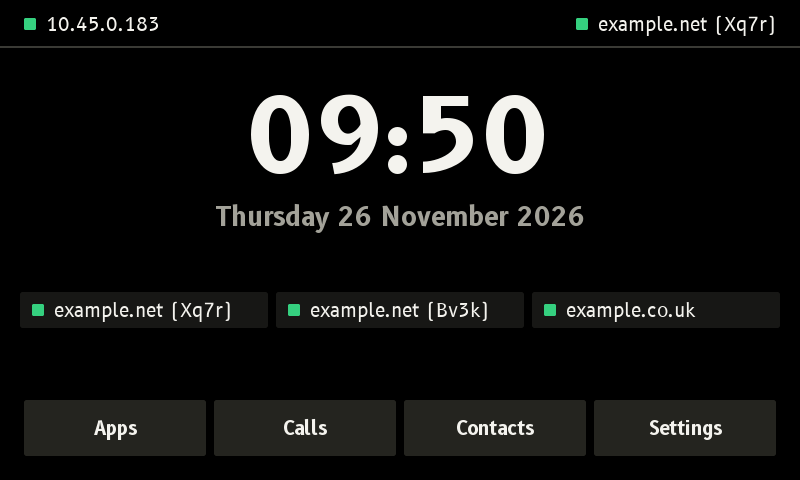
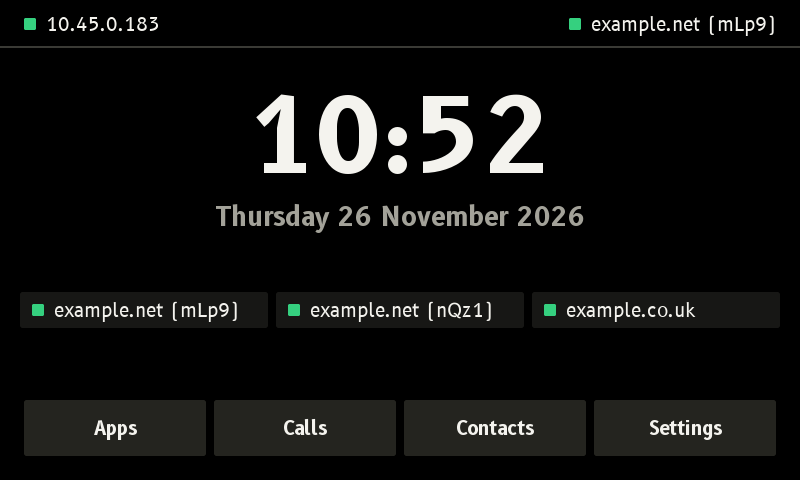
Shell, web, audio: review fixes for account names, the call list and key tones
The web setup page's call list read the accounts' names only after the Overview had; it reads them itself now. Two accounts at one host are told apart by the last 4 characters of the user, where numbers differ, and by the whole user if those match too. Host names are compared and shown in lower case, and a bracketed IPv6 host drops its port. The audio service keeps the hardware up after a key's sound only when that sound alone runs it, not in a call or off hook.

diff --git a/shell/names.c b/shell/names.c
@@ -90,7 +90,8 @@ void host_short(const char *host, char *out, size_t n)
 {
     char h[256];
     snprintf(h, sizeof h, "%s", host ? host : "");
-    if (h[0] == '[') { snprintf(out, n, "%s", h); return; }
+    for (char *p = h; *p; p++) *p = (char)tolower((unsigned char)*p);   /* names are the same in any case */
+    if (h[0] == '[') { h[strcspn(h, "]") + (strchr(h, ']') ? 1 : 0)] = 0; snprintf(out, n, "%s", h); return; }   /* [IPv6]:port */
     if (strchr(h, ':') == strrchr(h, ':')) h[strcspn(h, ":")] = 0;   /* one colon: a port, not IPv6 */
     size_t k = strlen(h);
     while (k && h[k - 1] == '.') h[--k] = 0;
@@ -116,17 +117,25 @@ void acct_names(int n, const char *const user[], const char *const host[], const
         if (label[i] && label[i][0]) snprintf(out[i], ACCT_NAME_MAX, "%s", label[i]);
         else host_short(host[i], out[i], ACCT_NAME_MAX);
     }
-    /* the same twice: an account named after its host is its user if that is short (an extension,
-     * "103"), otherwise the host's name and the start of the user */
+    /* The same twice: an account named after its host is its user if that is short (an extension,
+     * "103"), otherwise the host's name and the end of the user (numbers differ at the end), and the
+     * whole user if that still reads the same as another. */
     char base[n > 0 ? n : 1][ACCT_NAME_MAX];
-    for (int i = 0; i < n; i++) memcpy(base[i], out[i], ACCT_NAME_MAX);
+    int tagged[n > 0 ? n : 1];
+    for (int i = 0; i < n; i++) { memcpy(base[i], out[i], ACCT_NAME_MAX); tagged[i] = 0; }
     for (int i = 0; i < n; i++) {
         if (!base[i][0] || (label[i] && label[i][0])) continue;
         for (int j = 0; j < n; j++) {
             if (j == i || strcmp(base[i], base[j])) continue;
-            if (strlen(user[i]) <= 8) snprintf(out[i], ACCT_NAME_MAX, "%s", user[i]);
-            else snprintf(out[i], ACCT_NAME_MAX, "%.30s (%.4s)", base[i], user[i]);
+            size_t k = strlen(user[i]);
+            if (k <= 8) snprintf(out[i], ACCT_NAME_MAX, "%s", user[i]);
+            else { snprintf(out[i], ACCT_NAME_MAX, "%.30s (%s)", base[i], user[i] + k - 4); tagged[i] = 1; }
             break;
         }
     }
+    for (int i = 0; i < n; i++)
+        for (int j = 0; tagged[i] && j < n; j++)
+            if (j != i && !strcmp(out[i], out[j])) tagged[i] = 2;   /* all marked before any changes */
+    for (int i = 0; i < n; i++)
+        if (tagged[i] == 2) snprintf(out[i], ACCT_NAME_MAX, "%.20s (%s)", base[i], user[i]);
 }

diff --git a/shell/tests/test_names.c b/shell/tests/test_names.c
@@ -81,22 +81,29 @@ int main(void)
     shorter("192.168.1.20", "192.168.1.20");
     shorter("192.168.1.20:5060", "192.168.1.20");
     shorter("fe80::1", "fe80::1");
-    shorter("[2001:db8::1]:5061", "[2001:db8::1]:5061");
+    shorter("[2001:db8::1]:5061", "[2001:db8::1]");
+    shorter("[2001:db8::1]", "[2001:db8::1]");
+    shorter("SIP.Example.NET", "example.net");
     shorter("", "");
 
     /* the Account name wins; no name: the domain; two the same: the start of each user */
     names("Xq7rT2mLp9", "edge2-tls.prod.example.net", "", "1001", "pbx.example.org", "", "", "", "",
           "example.net", "example.org", "");
     names("Xq7rT2mLp9", "sip.example.net", "", "Bv3kW8nQz1", "sip2.example.net", "", "", "", "",
-          "example.net (Xq7r)", "example.net (Bv3k)", "");
+          "example.net (mLp9)", "example.net (nQz1)", "");
     names("Xq7rT2mLp9", "sip.example.net", "Home", "Bv3kW8nQz1", "sip2.example.net", "", "", "", "",
           "Home", "example.net", "");
     names("Xq7rT2mLp9", "sip.example.net", "example.net", "Bv3kW8nQz1", "sip2.example.net", "", "1001", "pbx.example.org", "Work",
-          "example.net", "example.net (Bv3k)", "Work");
+          "example.net", "example.net (nQz1)", "Work");
     names("100", "10.0.0.5", "", "101", "10.0.0.5", "", "", "", "",
           "100", "101", "");
+    /* numbers that differ only at the end, and users whose ends are the same too */
+    names("441234567890", "sip.example.net", "", "441234567891", "SIP.example.net", "", "", "", "",
+          "example.net (7890)", "example.net (7891)", "");
+    names("Ab12Zz99", "x", "", "Xq7rT2mLp9", "sip.example.net", "", "Yw4kT2mLp9", "edge.example.net", "",
+          "x", "example.net (Xq7rT2mLp9)", "example.net (Yw4kT2mLp9)");
     names("1001", "pbx.example.org", "", "Xq7rT2mLp9", "sip.example.org", "", "12345678", "pbx.example.org", "",
-          "1001", "example.org (Xq7r)", "12345678");
+          "1001", "example.org (mLp9)", "12345678");
 
     printf("%s names test: %d checks, %d failed\n", fails ? "FAIL" : "PASS", checks, fails);
     return fails != 0;

diff --git a/webconfig/tests/test_web.py b/webconfig/tests/test_web.py
@@ -845,13 +845,18 @@ class Paired(unittest.TestCase):
         self.ok("/accounts/save", {"n": "7", "user": "Xq7rT2mLp9", "domain": "edge2-tls.prod.example.net", "transport": "tls", "enabled": "on"}, "/accounts")
         self.ok("/accounts/save", {"n": "8", "user": "Bv3kW8nQz1", "domain": "sip.example.net", "transport": "tls", "enabled": "on"}, "/accounts")
         home, page = b.get("/").body, b.get("/accounts").body
-        for name in ("example.net (Xq7r)", "example.net (Bv3k)"):
+        for name in ("example.net (mLp9)", "example.net (nQz1)"):
             self.assertIn("<p>" + name, home)
             self.assertIn("<span class='sum'>" + name + "</span>", page)
             self.assertRegex(page, "<option value='[78]'>[78]: " + re.escape(name) + "</option>")
         self.assertNotIn("edge2-tls", home)
         # the Account name wins, and the other no longer needs its user
         p.set("sip8", "label", "Home")
+        # the call list names the account as it is now, read for that page
+        with open(os.path.join(p.state, "history"), "w") as f:
+            f.write("%d|o|5|1002||8\n" % int(time.time()))
+        self.assertIn("<td>Home</td>", b.get("/history").body)
+        os.remove(os.path.join(p.state, "history"))
         home = b.get("/").body
         self.assertIn("<p>Home", home)
         self.assertIn("<p>example.net<", home)

diff --git a/webconfig/pages.c b/webconfig/pages.c
@@ -243,7 +243,6 @@ static int history_count(void)
     char path[300];
     int n = 0;
     snprintf(path, sizeof path, "%s/history", opt.state);
-    names_load();
     char *t = load_file(path, 64 * 1024);
     for (char *p = t; p && *p; p = strchr(p, '\n'), p = p ? p + 1 : NULL)
         if (strncmp(p, "seen ", 5) && strchr(p, '|')) n++;
@@ -1269,6 +1268,7 @@ static void page_history(struct req *r)
     char *lines[64];
     int n = 0;
     snprintf(path, sizeof path, "%s/history", opt.state);
+    names_load();
     char *t = load_file(path, 64 * 1024);
     for (char *p = t; p && *p;) {
         char *nl = strchr(p, '\n');

diff --git a/shell/names.h b/shell/names.h
@@ -21,7 +21,7 @@ void host_short(const char *host, char *out, size_t n);
 
 /* What each of n accounts is called: its Account name, or the short form of its server host,
  * except where two would read the same: then its user if 8 characters or fewer, else the short
- * host with the first 4 characters of its user.
+ * host with the last 4 characters of its user, or the whole user if that is still not enough.
  * user[i] empty: the account is not set up, and out[i] is "". */
 void acct_names(int n, const char *const user[], const char *const host[], const char *const label[],
                 char out[][ACCT_NAME_MAX]);

diff --git a/audiod/main.c b/audiod/main.c
@@ -392,7 +392,8 @@ static void ctl_read(int i)
 			break;
 		case T48AC_KEY:
 			engine_key(&eng, p[0]);
-			if (linger < KEY_LINGER_TICKS)
+			/* only where the key's sound alone runs the hardware: not in a call, or off hook */
+			if (!eng.route && call.fd < 0 && linger < KEY_LINGER_TICKS)
 				linger = KEY_LINGER_TICKS;
 			break;
 		case T48AC_APP:

diff --git a/audiod/tests/socket_test.py b/audiod/tests/socket_test.py
@@ -372,6 +372,8 @@ def main():
     # baresip late: three ticks with no answer, then carry on
     c.run(3, skip=3)
     c.run(50)
+    d.ctl("key", "5")      # a tone sent in the call: no keeping the hardware up for more keys after it
+    c.run(3)
     d.ctl("route", "none")
     c.run(25)
     c.close()

diff --git a/docs/phone.md b/docs/phone.md
@@ -181,7 +181,7 @@ Up to 16, the stock firmware's number of lines, set in Settings, Accounts ([sett
 - **Calls go out from the default account** unless another is chosen: Left and Right in the dialler step through the accounts, as does a touch on the "From" line. A touch on an account's line on the idle screen opens the dialler already set to it.
 - **Which is the default** is set on the Accounts page. The status bar shows that one; with more than one account the idle screen has a line for each with its own dot. Over six, the sixth line is the rest: how many, and the dot of the worst of them; a touch on it opens the dialler. The small screen's one line becomes dots alone when the names do not fit.
 - **The history keeps the account** of each call, and Redial and the history call back from the same one.
-- **What an account is called** on the phone's screens and the web setup page: its Account name if it has one; otherwise its server host cut to the domain, the last two parts (`sip.example.net` becomes `example.net`) or three under a country's second level (`voip.example.co.uk` becomes `example.co.uk`; an IP address stays as it is). Two or more that would read the same are each called by the user instead when it is 8 characters or fewer (an extension, `103`), and otherwise by the domain with the user's first four characters: `example.net (Xq7r)`. A single account shows the domain alone. Some providers give out a random user and a long host per customer; the full address is on the account's own page. On the idle screen a name too long to sit beside "Default" goes without the word: the status bar names the default too.
+- **What an account is called** on the phone's screens and the web setup page: its Account name if it has one; otherwise its server host cut to the domain, the last two parts (`sip.example.net` becomes `example.net`) or three under a country's second level (`voip.example.co.uk` becomes `example.co.uk`; an IP address stays as it is, less any port; case does not matter). Two or more that would read the same are each called by the user instead when it is 8 characters or fewer (an extension, `103`), and otherwise by the domain with the last four characters of the user, `example.net (mLp9)`, or the whole user where those are the same too. A single account shows the domain alone. Some providers give out a random user and a long host per customer; the full address is on the account's own page. On the idle screen a name too long to sit beside "Default" goes without the word: the status bar names the default too.
 - An account can be switched off without forgetting it ("Enabled"), given an **Account name** for the phone's own screens (the idle screen, the dialler's From, the call list, and later the line keys; `label` in the file), and removed. Display name is different: it is what the far end is told.
 
 The dot beside an account is green when registered, amber while trying, red when the server refused or baresip is not running. The shell reads the same files `t48-sip` does ([sip.md](sip.md#running-it), example in [`sip/config/sip.example`](../sip/config/sip.example)), and only for what it shows; the passwords are baresip's business. No account is in the repository; the tests use made-up ones on a server that exists for a minute.

diff --git a/docs/audiod.md b/docs/audiod.md
@@ -30,7 +30,7 @@ Each 20 ms tick, driven by the hardware's own sample clock:
 4. microphone = DC removed, echo control on the speakerphone, silence if muted or on hook;
 5. play the loudspeaker frame, send the microphone frame to baresip.
 
-When nothing is wanted (on hook, no call audio, no tone, no app writing sound) the hardware is closed and the process sleeps. It uses no CPU at all while the phone is idle. After a key's sound it stays running for 2 s, for the next key: closing and opening it between keys made the tones late ([phone.md](phone.md#speed)).
+When nothing is wanted (on hook, no call audio, no tone, no app writing sound) the hardware is closed and the process sleeps. It uses no CPU at all while the phone is idle. After a key's sound on the hook, with no call, it stays running for 2 s, for the next key: closing and opening it between keys made the tones late ([phone.md](phone.md#speed)).
 
 Rules worth knowing:
 
